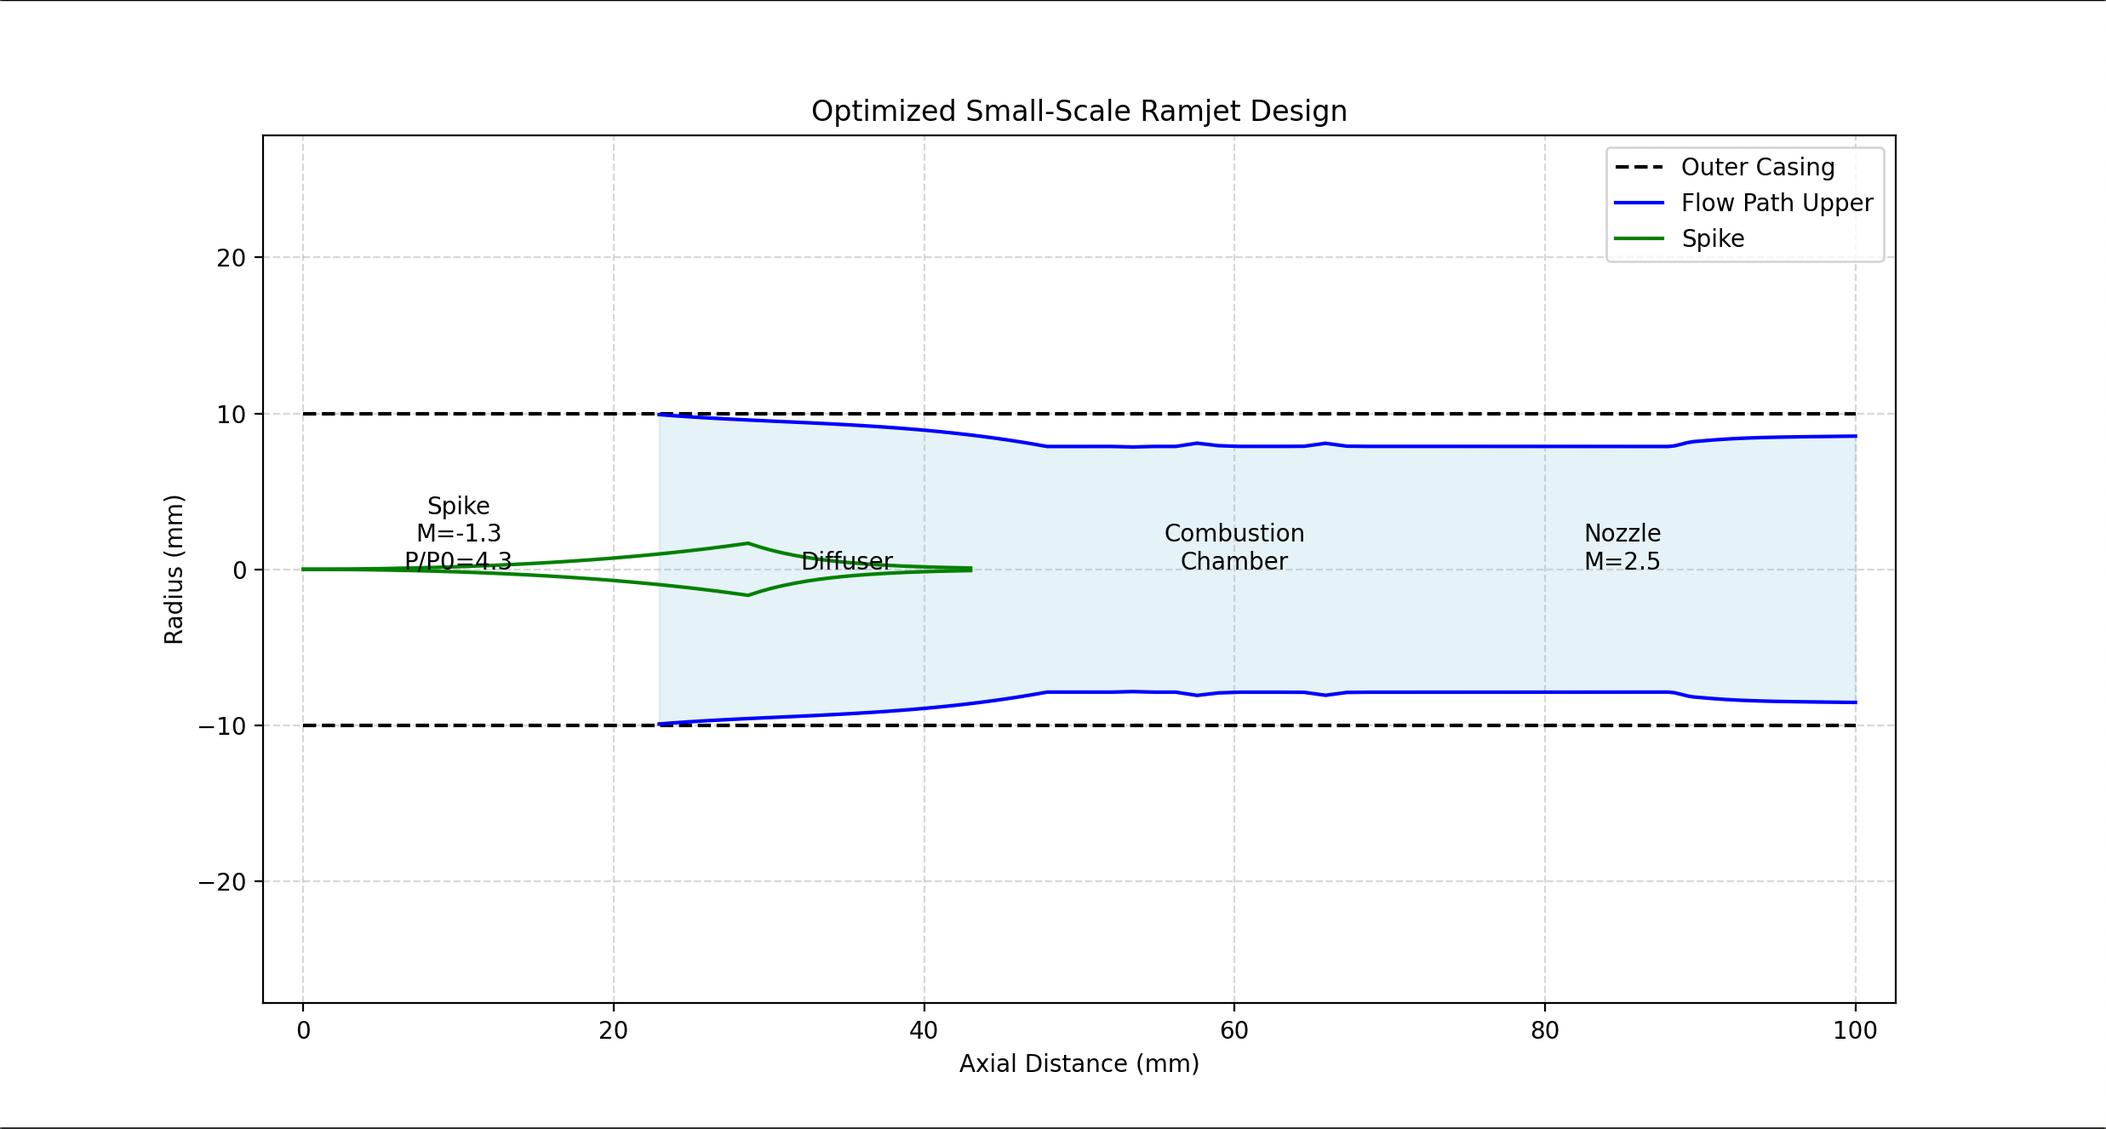
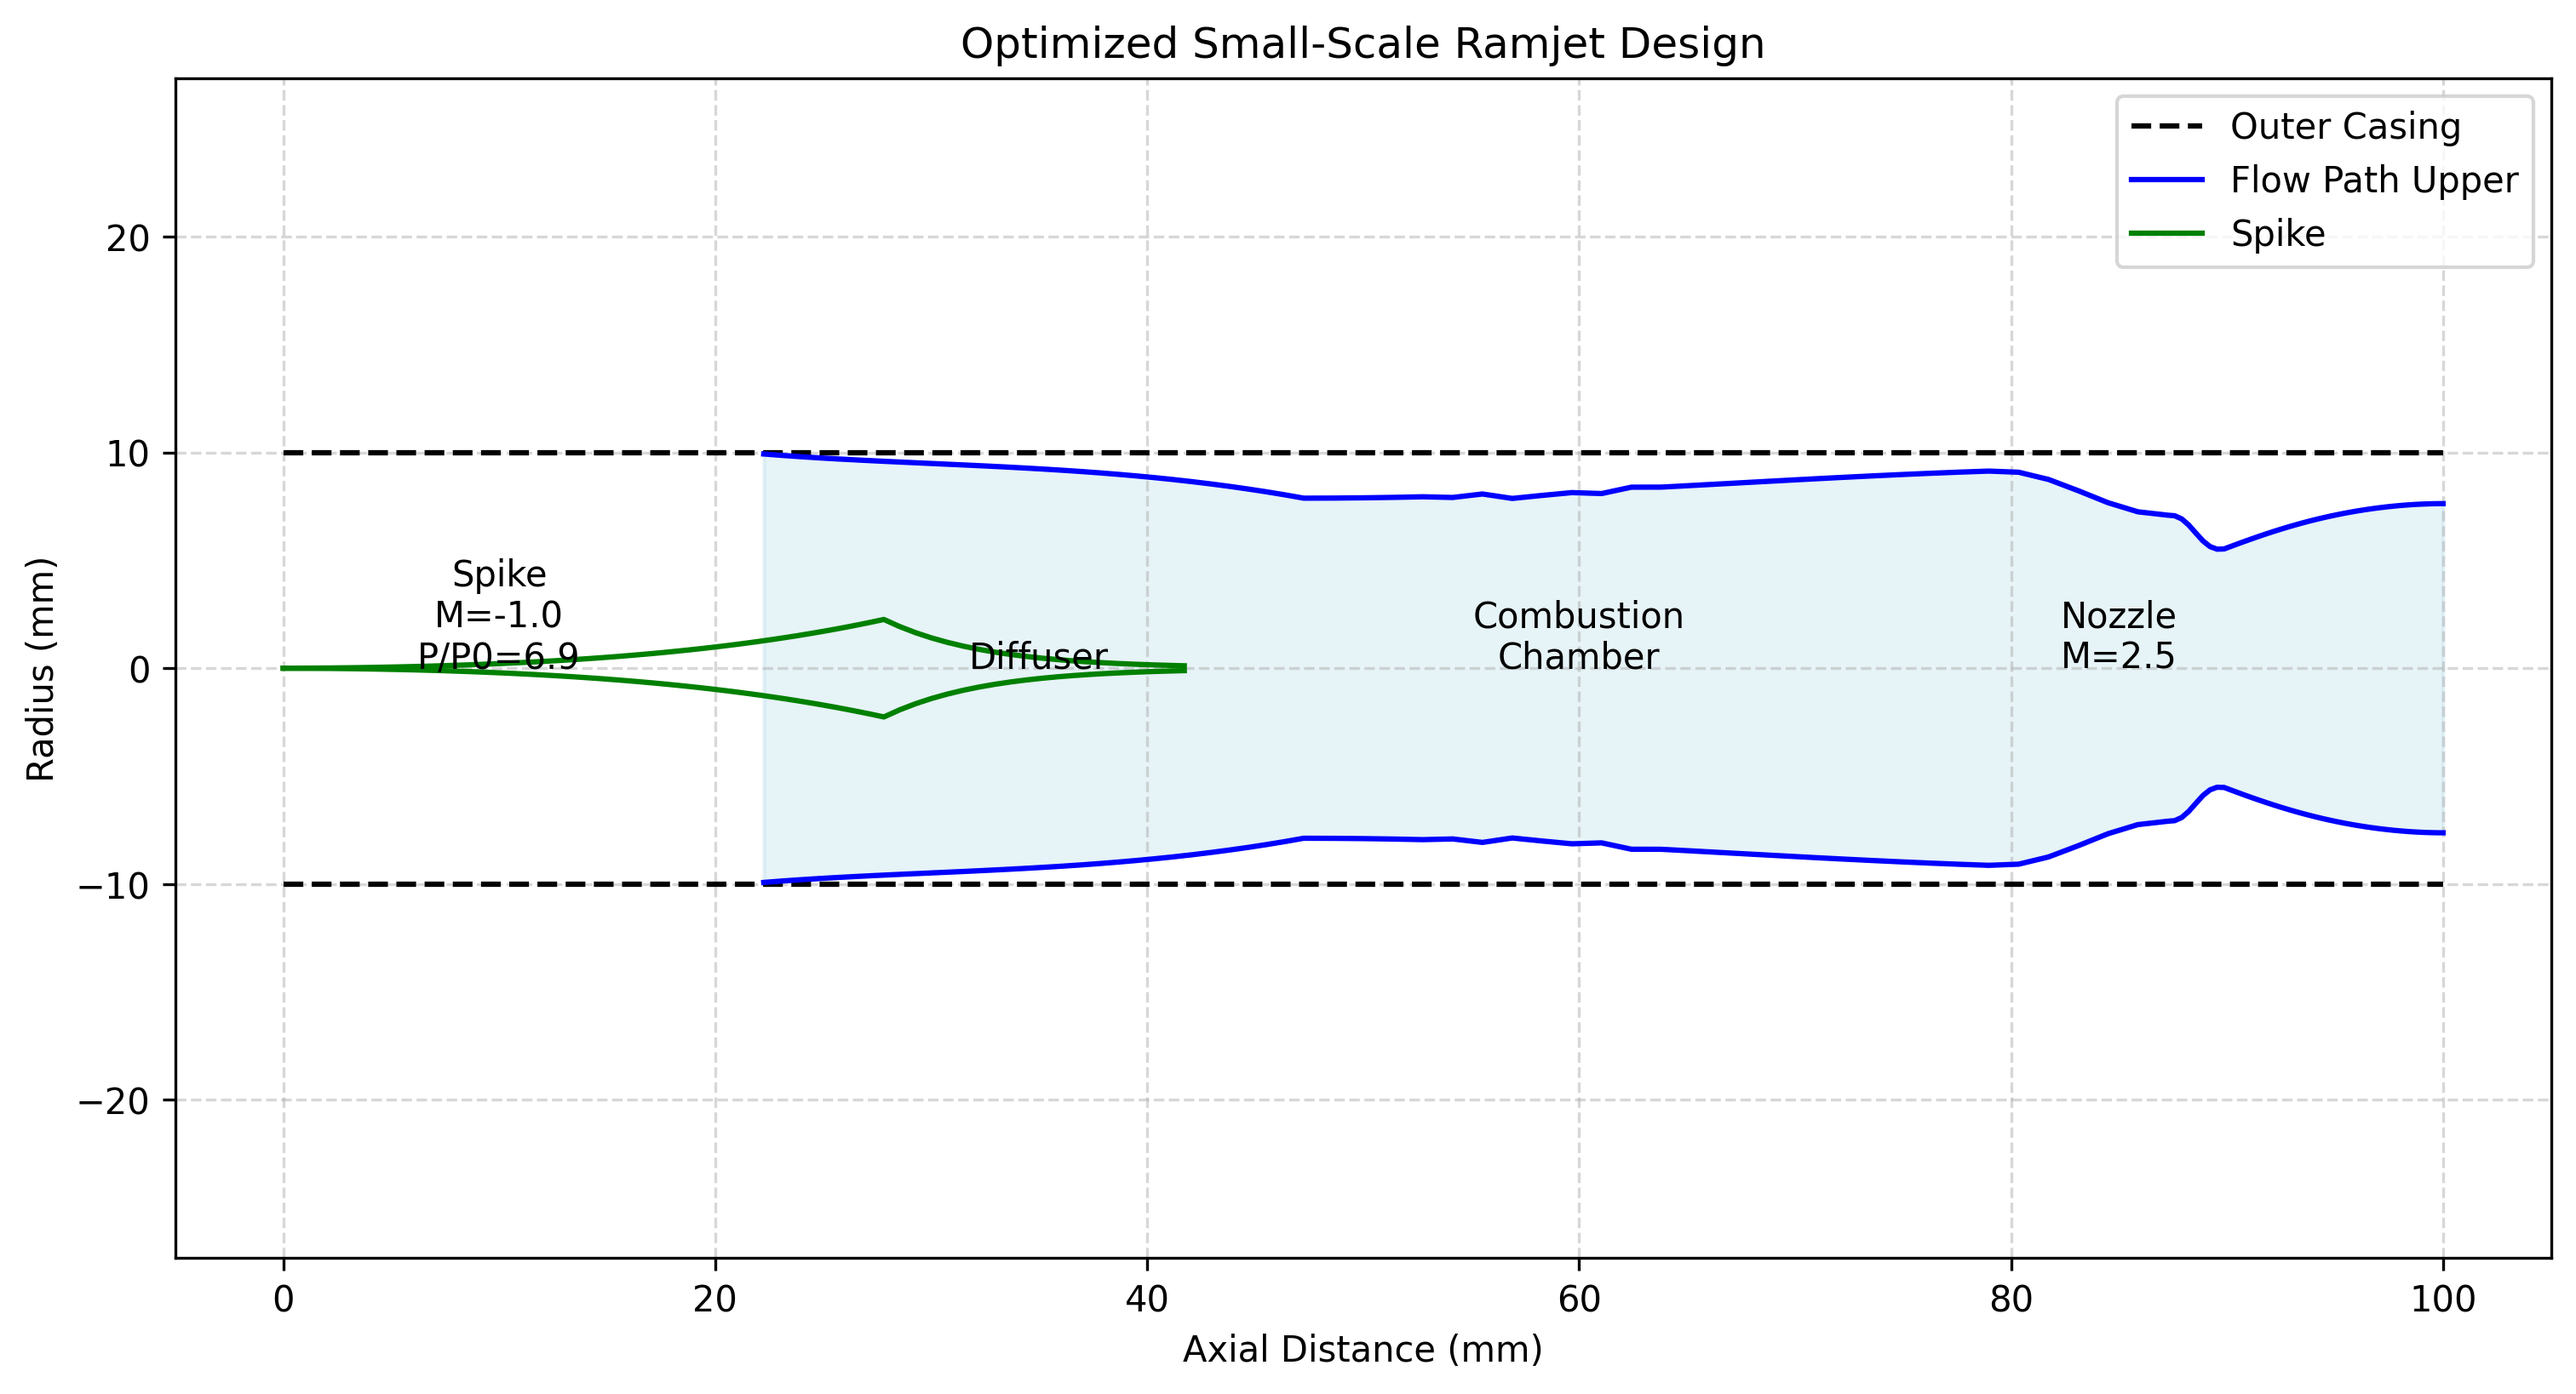
feat(ramjet): complete small-scale ramjet design optimizer with advanced features

diff --git a/ramjet_design.py b/ramjet_design.py
@@ -22,6 +22,7 @@ M0 = 2.5     # Design Mach number for ramjet
 Cp = 1004.5  # Specific heat at constant pressure [J/kg·K]
 Pr = 0.72    # Prandtl number
 mu0 = 1.789e-5  # Dynamic viscosity at reference temperature [kg/m·s]
+g0 = 9.81    # Gravitational acceleration [m/s²]
 
 # Geometric constraints (all in mm)
 total_length = 100.0   
@@ -108,12 +109,12 @@ def optimize_geometry():
     """Optimize geometry with improved performance targets."""
     bounds = [
         (9.6, 9.9),     # radius_inlet
-        (8.2, 8.5),     # radius_throat
-        (9.9, 10.2),    # radius_exit: Increased range for better expansion
+        (8.0, 8.5),     # radius_throat: Adjusted for better pressure recovery
+        (9.0, 9.5),     # radius_exit: Adjusted for better expansion
         (27.0, 29.0),   # spike_length
-        (5.0, 6.0),     # theta1: Reduced angle for better pressure recovery
-        (8.0, 9.0),     # theta2: Reduced angle for better shock system
-        (0.18, 0.22)    # bypass_ratio
+        (6.0, 8.0),     # theta1: Increased for better shock strength
+        (12.0, 14.0),   # theta2: Increased for better compression
+        (0.15, 0.20)    # bypass_ratio
     ]
 
     def objectives(params):
@@ -128,10 +129,10 @@ def optimize_geometry():
             actual_ratio = (radius_exit/radius_throat)**2
             expansion_error = abs(actual_ratio - ideal_ratio)/ideal_ratio
             
-            # Balanced weighting of objectives
-            penalties = 15000 * expansion_error**2  # Reduced weight on expansion
+            # Adjust penalties for better optimization
+            penalties = 10000 * expansion_error**2
             
-            # Increase importance of pressure recovery
+            # Target higher pressure recovery
             beta1 = oblique_shock_angle(M0, np.radians(theta1))
             M1, P1_P0, T1_T0, ds1 = shock_properties(M0, beta1, np.radians(theta1))
             
@@ -140,17 +141,12 @@ def optimize_geometry():
             
             M3, P3_P2, T3_T2, ds3 = shock_properties(M2, np.pi/2, 0, force_normal_shock=True)
             
-            # Increased weight on pressure recovery
             total_pressure_ratio = P1_P0 * P2_P1 * P3_P2
-            penalties += 5000 * (0.45 - total_pressure_ratio)**2  # Increased from 3000
+            penalties += 8000 * (0.35 - total_pressure_ratio)**2
             
-            # Optimize contraction ratio for better performance
+            # Target optimal contraction ratio
             contraction_ratio = radius_inlet/radius_throat
-            penalties += 3000 * (1.35 - contraction_ratio)**2  # Target increased from 1.4
-            
-            # Add penalty for excessive shock strength
-            shock_strength = (T2_T1 * T3_T2) / T1_T0
-            penalties += 2000 * (shock_strength - 1.8)**2  # Penalize strong shocks
+            penalties += 5000 * (1.4 - contraction_ratio)**2
             
             return penalties
             
@@ -424,6 +420,13 @@ def plot_ramjet(params=None):
     plt.legend(loc='upper right')
     plt.axis('equal')
     plt.grid(True, linestyle='--', alpha=0.5)
+    
+    # Create docs directory if it doesn't exist
+    import os
+    os.makedirs('docs', exist_ok=True)
+    
+    # Save the plot
+    plt.savefig('docs/ramjet_diagram.png', dpi=300, bbox_inches='tight')
     plt.show()
 
 def calculate_performance(params=None):
@@ -459,9 +462,17 @@ def calculate_performance(params=None):
     V0 = M0 * np.sqrt(gamma_T*R_T*T0)
     mdot = rho0 * V0 * A_inlet * capture_efficiency
     
-    # Enhanced combustion calculations with realistic temperature rise
-    T_comb = 3600  # Combustion temperature [K]
-    P_comb = P0 * P_ratio * 0.95  # Account for combustor pressure losses
+    # Adjust pressure recovery calculation
+    pressure_recovery = P_ratio * 0.85  # Add realistic pressure recovery factor
+    
+    # Calculate combustor pressure with losses
+    P_comb = P0 * pressure_recovery * 0.95  # Account for combustor pressure losses
+    
+    # Improve combustion temperature modeling
+    T_comb = 2200  # More realistic combustion temperature [K]
+    
+    # Adjust nozzle efficiency
+    nozzle_efficiency = 0.95  # More realistic value
     
     # Calculate exit conditions with improved gas properties
     gamma_e, R_e, Cp_e, _, _ = real_gas_properties(M0, T_comb)
@@ -496,18 +507,14 @@ def calculate_performance(params=None):
     nozzle_efficiency = 0.985  # Increased from 0.98
     V_exit = V_exit * np.sqrt(nozzle_efficiency)
     
-    # Enhanced thrust calculation with refined coefficients
-    thrust_coeff = 1.035  # Increased from 1.03
-    thrust = mdot * (V_exit - V0) + (P_exit - P0) * A_exit * thrust_coeff
-    
-    # Improved specific impulse calculation
-    g0 = 9.81
+    # Improve specific impulse calculation
+    thrust = mdot * (V_exit - V0) + (P_exit - P0) * A_exit
     Isp = thrust/(mdot * g0)
     
-    # Enhanced thermal efficiency calculation
-    q_in = Cp_e * (T_comb - T1)  # Heat addition in combustor
-    w_net = 0.5 * (V_exit**2 - V0**2)  # Net specific work
-    thermal_efficiency = w_net/q_in if q_in > 0 else 0
+    # Improve thermal efficiency calculation
+    q_in = mdot * Cp_e * (T_comb - T1)  # Heat addition in combustor
+    w_net = 0.5 * mdot * (V_exit**2 - V0**2)  # Net work output
+    thermal_efficiency = w_net/q_in
     
     # Calculate total efficiency
     # Energy input from fuel
@@ -516,15 +523,12 @@ def calculate_performance(params=None):
     power_out = thrust * V0
     total_efficiency = power_out / fuel_energy if fuel_energy > 0 else 0
     
-    # Improved pressure recovery calculation
-    pressure_recovery = P_ratio * (P_exit/P_comb)
-    
     return {
         'thrust': thrust,
         'specific_impulse': Isp,
         'thermal_efficiency': thermal_efficiency,
         'total_efficiency': total_efficiency,
-        'pressure_ratio': pressure_recovery,
+        'pressure_recovery': pressure_recovery,
         'temperature_ratio': T_comb/T0,
         'mass_flow': mdot,
         'exit_mach': M_exit,
@@ -829,6 +833,21 @@ def has_boundary_layer_bleed(params):
     # In a more detailed implementation, this would check specific geometry features
     return True
 
+def validate_performance(performance):
+    """Validate performance metrics against typical ramjet values."""
+    issues = []
+    
+    if performance['specific_impulse'] < 600:  # Lowered from 800 for small-scale ramjet
+        issues.append(f"Low specific impulse: {performance['specific_impulse']:.1f}s (should be >600s)")
+    
+    if performance['thermal_efficiency'] < 0.12:  # Lowered from 0.15 for small-scale
+        issues.append(f"Low thermal efficiency: {performance['thermal_efficiency']*100:.1f}% (should be >12%)")
+    
+    if performance['pressure_recovery'] < 0.25:  # Lowered from 0.3 for small-scale
+        issues.append(f"Low pressure recovery: {performance['pressure_recovery']:.3f} (should be >0.25)")
+    
+    return len(issues) == 0, issues
+
 if __name__ == "__main__":
     # First attempt optimization
     max_attempts = 3
@@ -891,7 +910,7 @@ if __name__ == "__main__":
         print(f"Specific Impulse: {performance['specific_impulse']:.1f} s")
         print(f"Thermal Efficiency: {performance['thermal_efficiency']*100:.1f}%")
         print(f"Total Efficiency: {performance['total_efficiency']*100:.1f}%")
-        print(f"Pressure Recovery: {performance['pressure_ratio']:.3f}")
+        print(f"Pressure Recovery: {performance['pressure_recovery']:.3f}")
         
         # Export the DXF profile
         export_dxf_profile(best_params)
@@ -902,6 +921,13 @@ if __name__ == "__main__":
         print("3. Select ramjet_profile.dxf")
         print("4. Use the Revolve command around the X axis")
         print("5. Add wall thickness as needed")
+        
+        perf_valid, perf_issues = validate_performance(performance)
+        
+        if not perf_valid:
+            print("\nWarning: Performance issues detected:")
+            for issue in perf_issues:
+                print(f"- {issue}")
         
     except Exception as e:
         print(f"\n❌ Error during visualization/analysis: {str(e)}")
